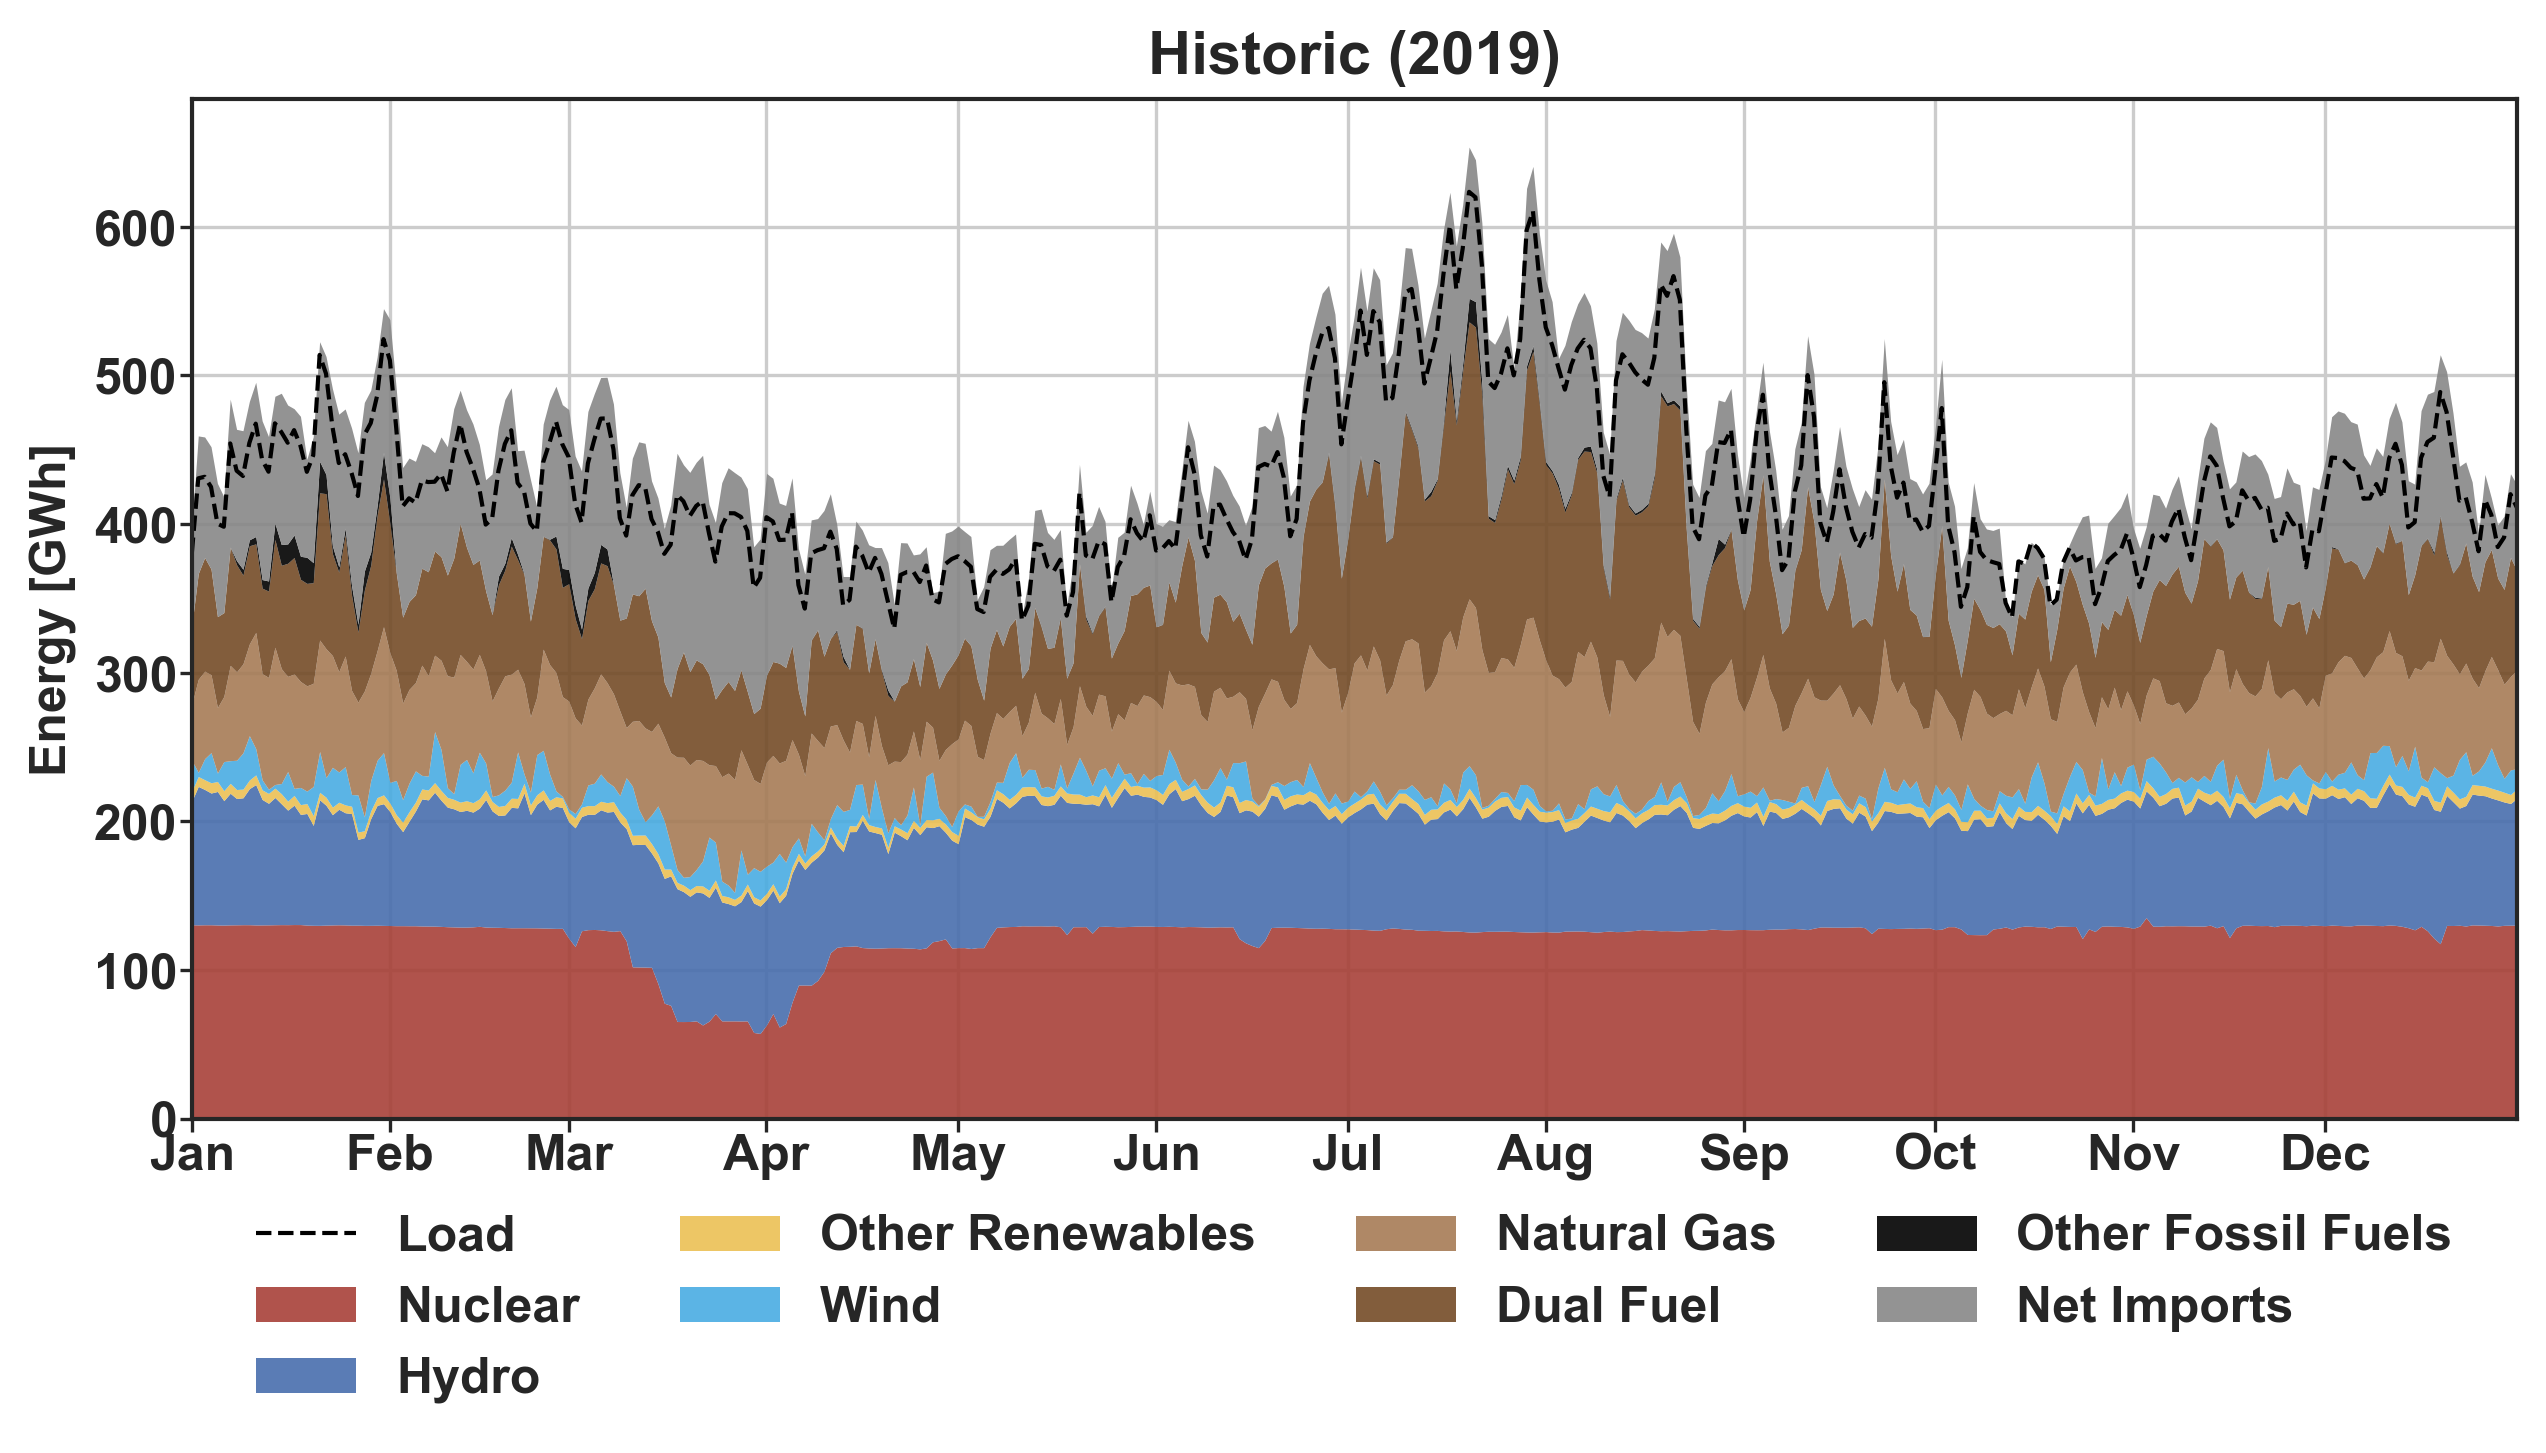
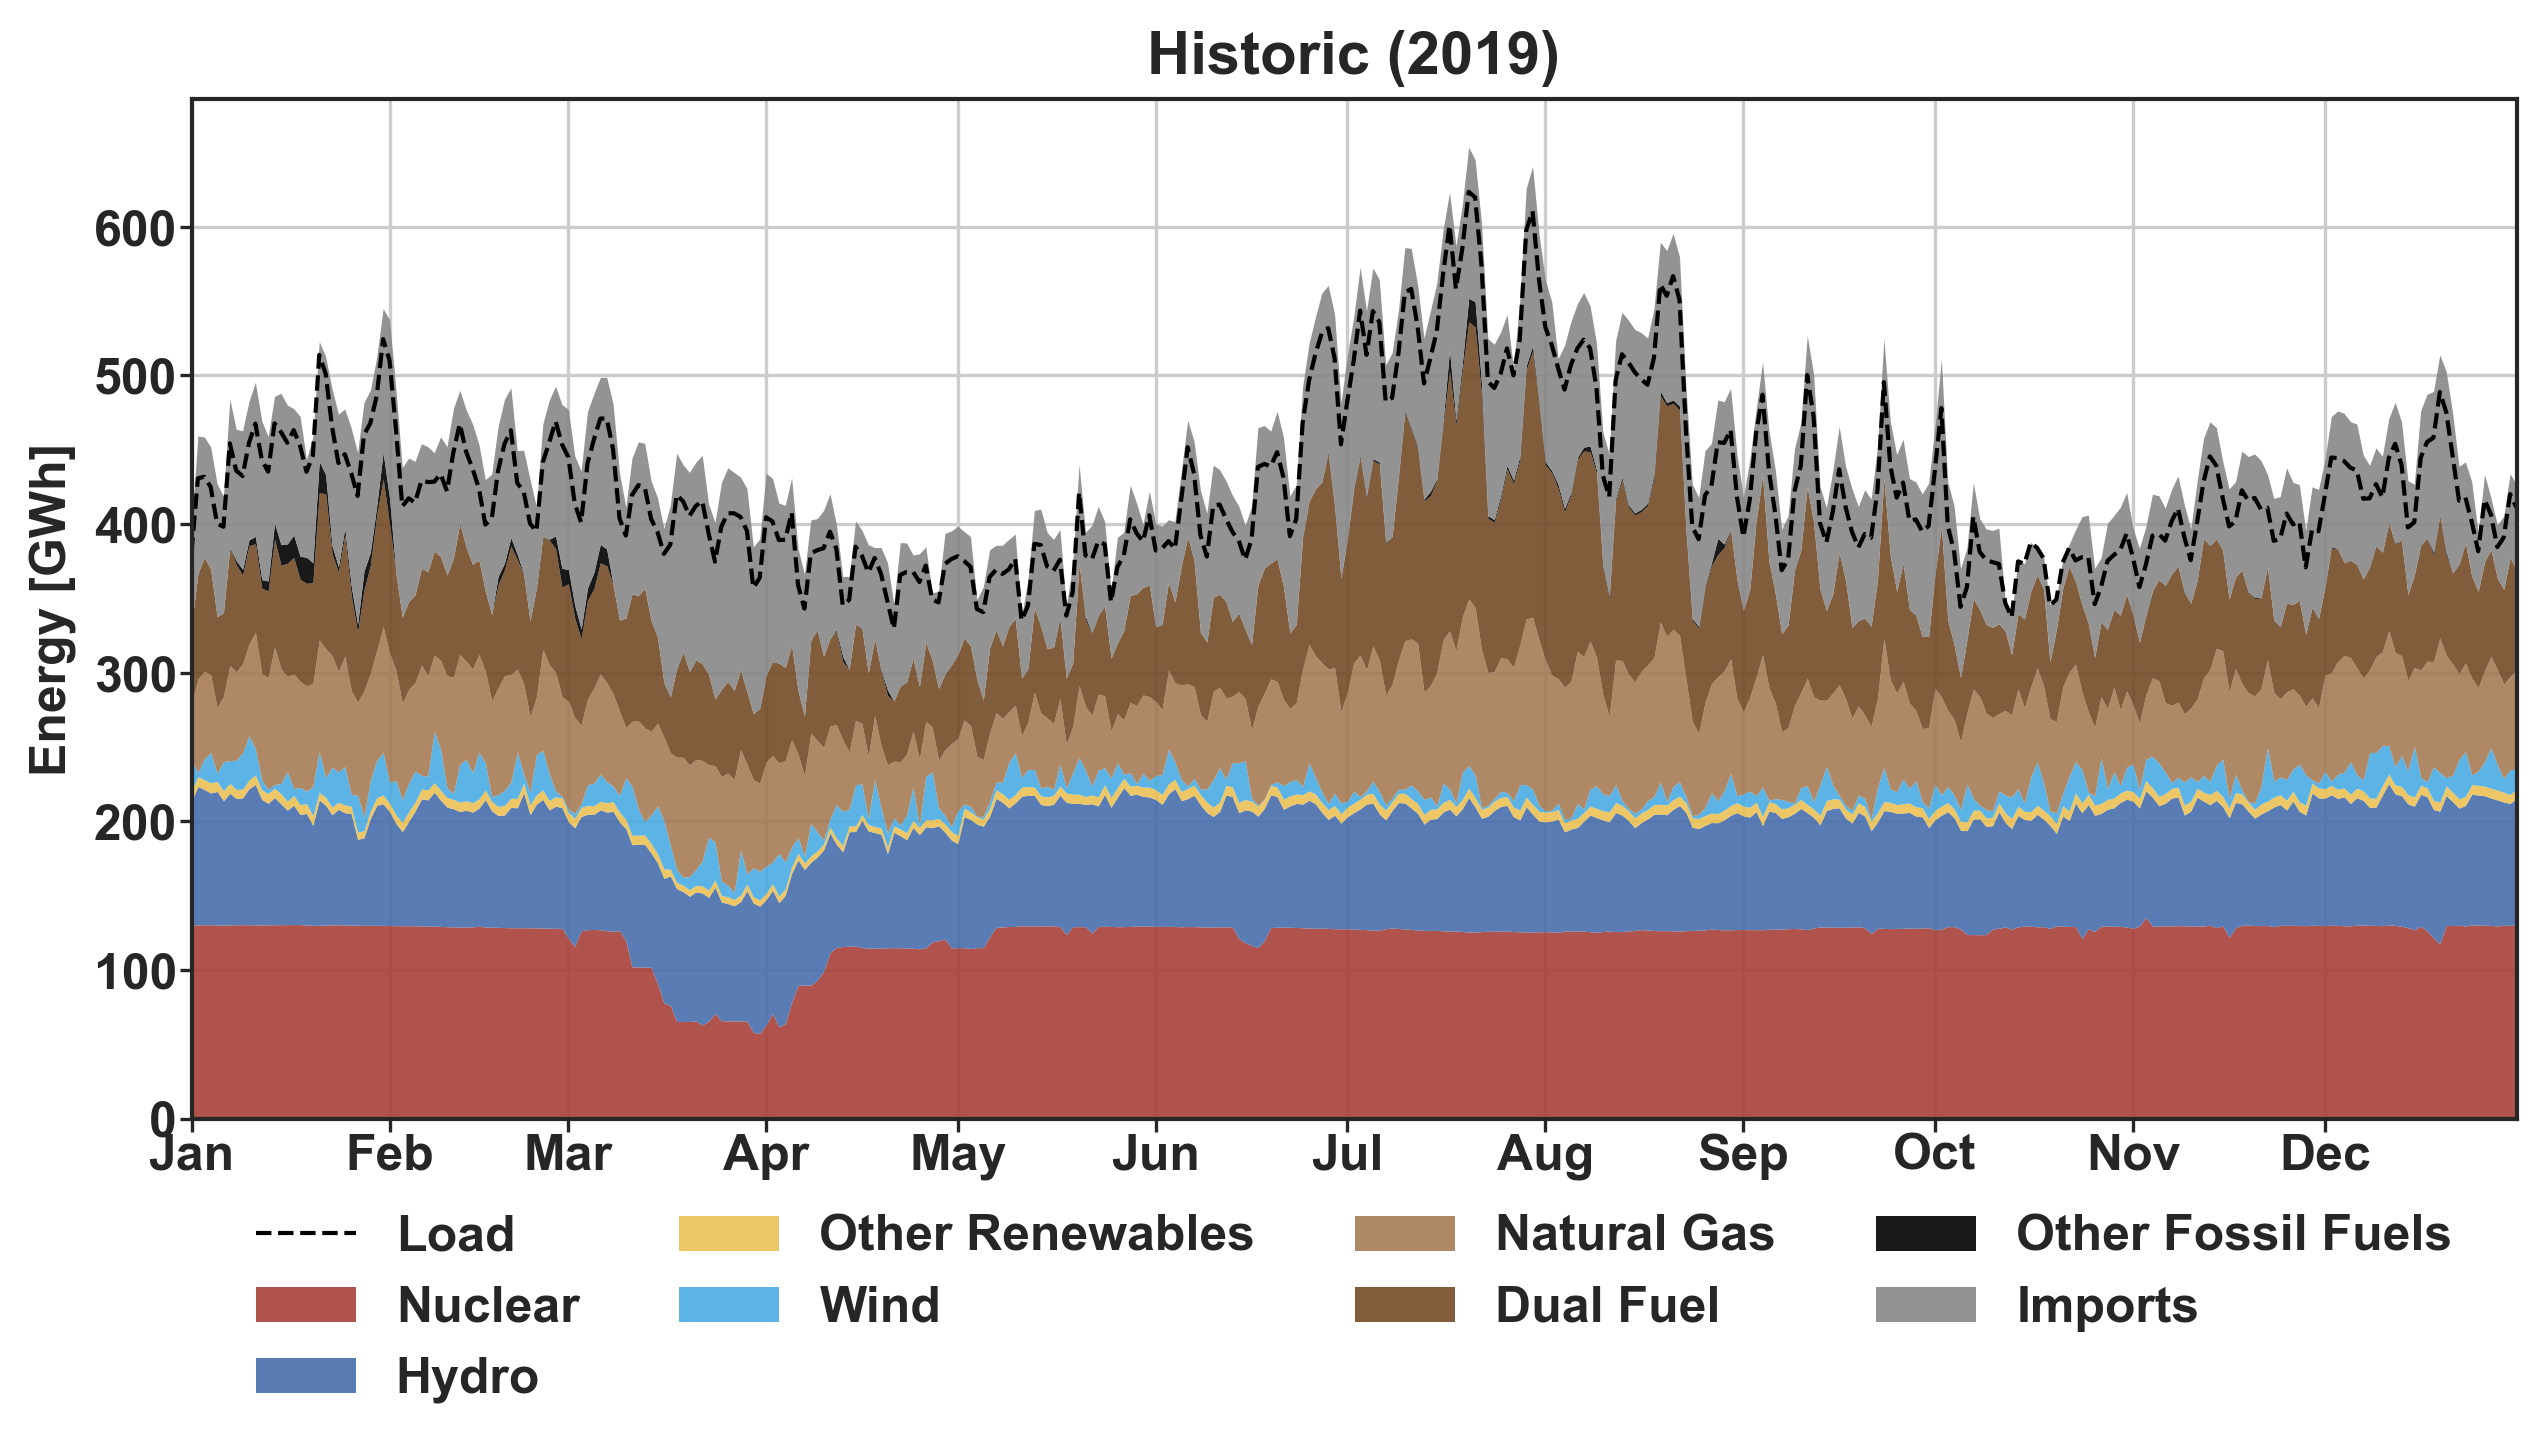
Changed Net Imports label to imports

diff --git a/nyisovis.py b/nyisovis.py
@@ -3,15 +3,8 @@ from nyisodata import NYISOData, EXTERNAL_TFLOWS_MAP
 from nyisostat import NYISOStat
 import matplotlib.dates as mdates
 import matplotlib.pyplot as plt
-import plotly.express as px
-import plotly.offline as opy
-from plotly.subplots import make_subplots
-import plotly.graph_objs as go
 import yaml
 import pathlib as pl
-import os
-import numpy as np
-import pandas as pd
 
 # Figure Configuration
 plt.style.use(['seaborn-whitegrid'])
@@ -49,11 +42,11 @@ class NYISOVis:
             return (df * 1/12).resample(f).sum()/1000  #MW->MWh->GWh
         dfs = {k: power_to_energy(v) for k, v in dfs.items()}
         
-        dfs['fuel_mix']['Net Imports'] = dfs['imports'] #add imports to fuel mix
+        dfs['fuel_mix']['Imports'] = dfs['imports'] #add imports to fuel mix
         del dfs['imports'] #remove imports from the dfs list
         
         order = ['Nuclear','Hydro','Other Renewables','Wind','Natural Gas','Dual Fuel',
-                 'Other Fossil Fuels', 'Net Imports'] 
+                 'Other Fossil Fuels', 'Imports'] 
         dfs['fuel_mix'] = dfs['fuel_mix'][order] #fix order
         
         def month_adj_object(df):
@@ -106,7 +99,7 @@ class NYISOVis:
         load = (load * 1/12).resample(f).sum()  
         fuel_mix = (fuel_mix * 1/12).resample(f).sum()   
         imports = (imports * 1/12 ).resample(f).sum()
-        fuel_mix['Net Imports'] = imports #Add Imports to fuel mix
+        fuel_mix['Imports'] = imports #Add Imports to fuel mix
     
         #Calculating Carbon-free Fraction [%]
         ef = fuel_mix.div(load, axis='index') * 100
@@ -125,21 +118,21 @@ class NYISOVis:
                      alpha=0.9, lw=0)
        
         #Plot Import Line
-        gen_imp = ef[carbonfree_sources+['Net Imports']].sum(axis='columns')
+        gen_imp = ef[carbonfree_sources+['Imports']].sum(axis='columns')
         gen_imp.index = gen_imp.index.astype('O')
         gen_imp.plot.line(ax=ax,linestyle='dotted',
-                          linewidth=1, color='k', label='Total + Net Imports')
+                          linewidth=1, color='k', label='Total + Imports')
     
         #Plot Goals and Progress
         data = [[t for t in carbonfree_sources if t!='Nuclear'],
                 carbonfree_sources]
-        averages = ['Renewable: {:.0f}% + Net Imports: {:.0f}% (70% by 2030)',
-                    'Carbon-Free: {:.0f}% + Net Imports: {:.0f}% (100% by 2040)']
+        averages = ['Renewable: {:.0f}% + Imports: {:.0f}% (70% by 2030)',
+                    'Carbon-Free: {:.0f}% + Imports: {:.0f}% (100% by 2040)']
         colors = ['limegreen','lawngreen']
         h_distances = [0.05, 0.05]
         for t,l,c,h in zip(data, averages,colors,h_distances):
             avg = fuel_mix[t].sum(axis='index').sum() / load.sum(axis='index') * 100
-            avg_imp = fuel_mix[t+['Net Imports']].sum(axis='index').sum() / load.sum(axis='index') * 100
+            avg_imp = fuel_mix[t+['Imports']].sum(axis='index').sum() / load.sum(axis='index') * 100
             ax.axhline(y=avg, xmax=h, color='k', linestyle='solid', lw=1)
             ax.text(h, avg/100, l.format(avg, avg_imp), 
                      bbox=dict(boxstyle='round',ec='black',fc=c, alpha=0.9),
@@ -168,7 +161,7 @@ class NYISOVis:
         df = stats[f'Historic ({year}) [% of Load]'].drop(index=['Total Renewable Generation',
                                                                  'Total Carbon-Free Generation',
                                                                  'Total Generation',
-                                                                 'Total Generation + Net Imports',
+                                                                 'Total Generation + Imports',
                                                                  'Load'])
         df = df.to_frame().T
         #Plot
@@ -184,9 +177,9 @@ class NYISOVis:
         ax.text(-0.0755, perc/100,'{:.0f}'.format(perc), transform=ax.transAxes)
         # Carbon Free + Imports Line
         perc = stats[f'Historic ({year}) [% of Load]'].loc[['Total Carbon-Free Generation',
-                                                            'Net Imports']].sum()
+                                                            'Imports']].sum()
         ax.axhline(y=perc, color='k', linestyle='dotted',
-                    label='CO$_2$e-Free Generation + Net Imports')
+                    label='CO$_2$e-Free Generation + Imports')
         ax.text(-0.0755, perc/100,'{:.0f}'.format(perc), transform=ax.transAxes)
         
         #Legend
@@ -196,7 +189,7 @@ class NYISOVis:
                   ncol=1, fancybox=True, shadow=False)
         #Axes
         ax.set(title=f'Historic ({year})',
-               xlabel=year, ylabel='Percent of Load [%]',
+               xlabel=year, ylabel='Percent of Load Served by Carbon-Free Energy',
                xlim=None, ylim=None)
         plt.xticks([])
         plt.savefig(pl.Path(out_dir,f'{year}_carbon_free_year.png'))

diff --git a/nyisostat.py b/nyisostat.py
@@ -56,8 +56,8 @@ class NYISOStat:
         df.loc['Total Generation'] = fuel_mix.sum()
         df.loc['Total Renewable Generation'] = fuel_mix.loc[['Hydro','Other Renewables','Wind']].sum()
         df.loc['Total Carbon-Free Generation'] = fuel_mix.loc[['Nuclear','Hydro','Other Renewables','Wind']].sum()
-        df.loc['Net Imports'] = imports
-        df.loc['Total Generation + Net Imports'] = df.loc['Net Imports'] + df.loc['Total Generation']
+        df.loc['Imports'] = imports
+        df.loc['Total Generation + Imports'] = df.loc['Imports'] + df.loc['Total Generation']
         df.loc['Load'] = load
         df[f'Historic ({year}) [% of Load]'] = df/load*100
         return df
